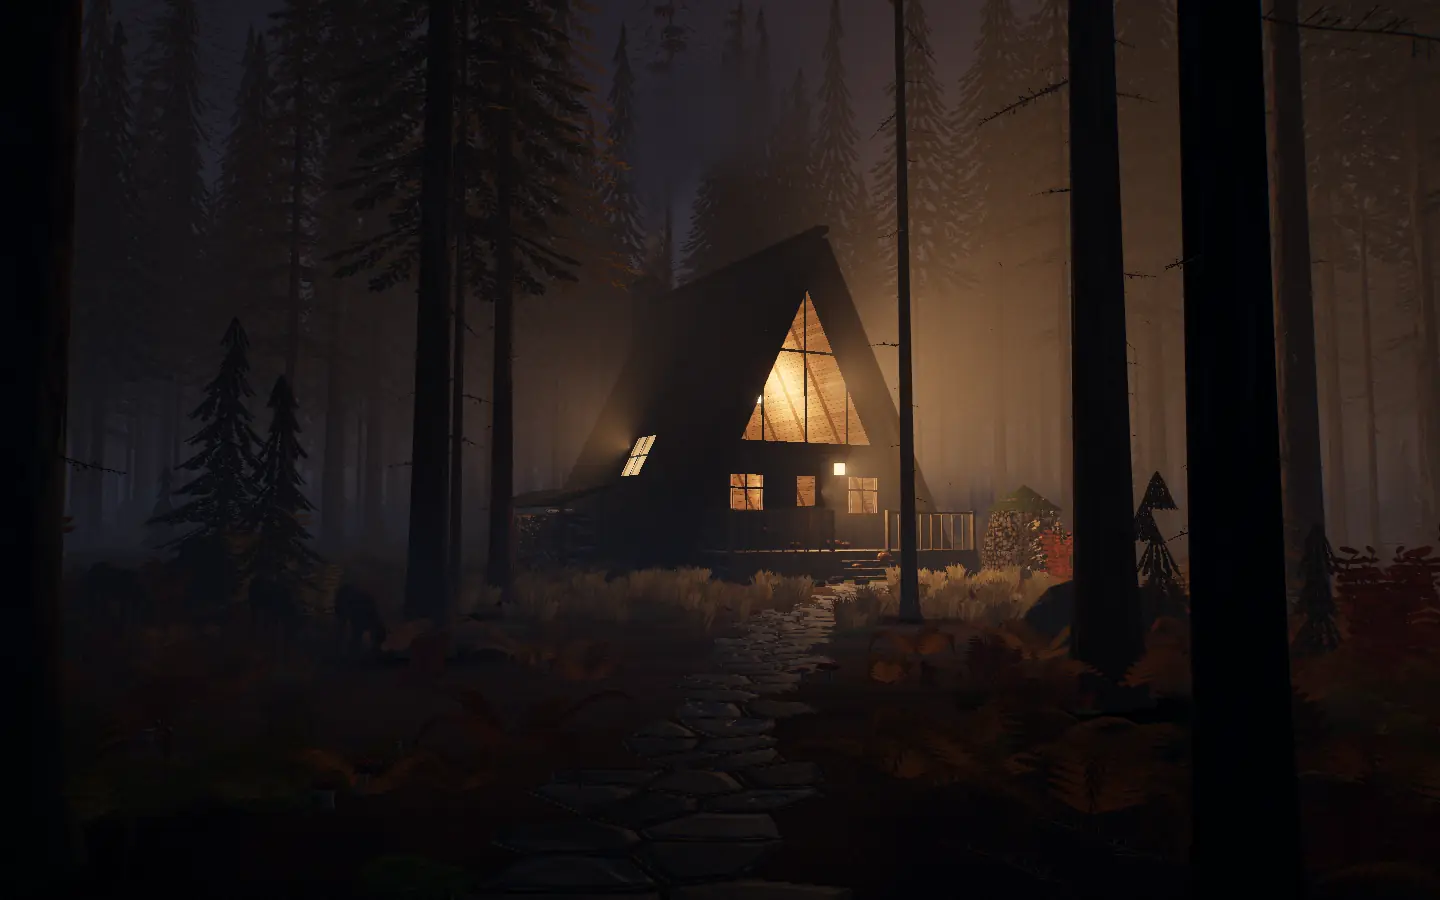
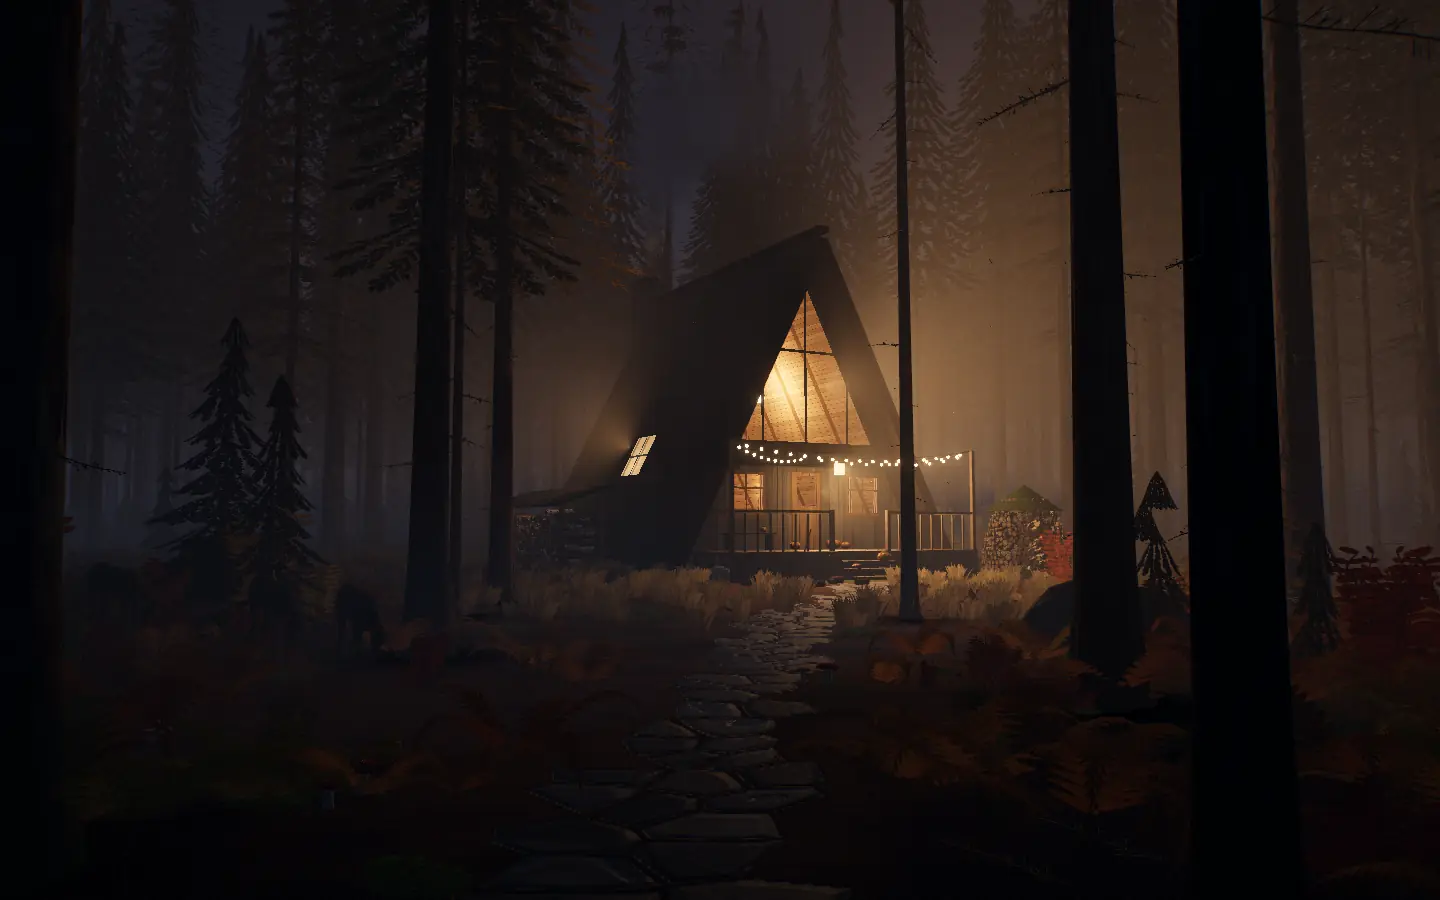
Hearth: a string of lights over the deck
Two poles at the deck's front corners, a swag between them and strings
back to the gable, warm bulbs every 40 cm, and a sixth cabin light so
the deck, the pumpkins and the mist round them take the glow. Fresh
screenshots.

Claude-Session: https://claude.ai/code/session_01GHzSRPRqkqfaveccepgYrb

Changed region(s): [[0.5, 0.4667, 0.6875, 0.6222]]

diff --git a/js/hearth3d.js b/js/hearth3d.js
@@ -66,8 +66,8 @@ const GLOW_DIR = new THREE.Vector3(-0.62, 0.1, -0.78).normalize();   // where th
 const GLSL_COMMON = /* glsl */`
 uniform float uTime, uNight, uFlick, uFogA, uFogH, uScat;
 uniform vec3 uSkyA, uSkyG, uGlowDir, uGlowCol, uFogCol;
-uniform vec3 uLp[5], uLn[5], uLc[5];     // the cabin's light: windows, lantern, roof windows (position, facing, colour)
-uniform float uLk[5], uLs[5];            // how tightly each one is aimed, how big it is
+uniform vec3 uLp[6], uLn[6], uLc[6];     // the cabin's light: windows, lantern, roof windows, the string over the deck (position, facing, colour)
+uniform float uLk[6], uLs[6];            // how tightly each one is aimed, how big it is
 uniform vec2 uClear, uWind;
 uniform mat4 uCabInv;
 float hash12(vec2 p){ vec3 p3 = fract(vec3(p.xyx) * .1031); p3 += dot(p3, p3.yzx + 33.33); return fract((p3.x + p3.y) * p3.z); }
@@ -91,7 +91,7 @@ vec3 fogSky(vec3 rd){
 }
 vec3 cabinLight(vec3 P, vec3 N, float wrap){
   vec3 c = vec3(0.);
-  for (int i = 0; i < 5; i++) {
+  for (int i = 0; i < 6; i++) {
     vec3 L = uLp[i] - P; float d2 = dot(L, L); L *= inversesqrt(d2);
     float dir = pow(max(dot(-L, uLn[i]), 1e-4), uLk[i]);
     c += uLc[i] * clamp((dot(N, L) + wrap) / (1. + wrap), 0., 1.) * dir / (d2 + 0.6);
@@ -100,7 +100,7 @@ vec3 cabinLight(vec3 P, vec3 N, float wrap){
 }
 vec3 cabinSpec(vec3 P, vec3 N, vec3 V, float shin){
   vec3 c = vec3(0.);
-  for (int i = 0; i < 5; i++) {
+  for (int i = 0; i < 6; i++) {
     vec3 L = uLp[i] - P; float d2 = dot(L, L); L *= inversesqrt(d2);
     float dir = pow(max(dot(-L, uLn[i]), 1e-4), uLk[i]);
     c += uLc[i] * dir * pow(max(dot(N, normalize(L + V)), 0.), shin) * (shin + 2.) / 8. * max(dot(N, L), 0.) / (d2 + 0.6);
@@ -123,7 +123,7 @@ vec3 shade(vec3 alb, vec3 N, vec3 P, float ao, float wrap, float spec){
 // light from the cabin scattered by the mist along the view ray (closed form for a point light in uniform fog)
 vec3 scatter(vec3 ro, vec3 rd, float t){
   vec3 s = vec3(0.);
-  for (int i = 0; i < 5; i++) {
+  for (int i = 0; i < 6; i++) {
     vec3 q = uLp[i] - ro; float s0 = dot(q, rd); float h = sqrt(max(dot(q, q) - s0 * s0, 0.)) + uLs[i];
     float a = (atan((t - s0) / h) + atan(s0 / h)) / h;
     vec3 cp = ro + rd * clamp(s0, 0., t);
@@ -173,10 +173,10 @@ const SU = {
   uTime: { value: 0 }, uNight: { value: 0 }, uFlick: { value: 1 }, uFogA: { value: 0.017 }, uFogH: { value: 14 }, uScat: { value: 0.006 },
   uSkyA: { value: new THREE.Vector3() }, uSkyG: { value: new THREE.Vector3() }, uGlowDir: { value: GLOW_DIR.clone() },
   uGlowCol: { value: new THREE.Vector3() }, uFogCol: { value: new THREE.Vector3() },
-  uLp: { value: [0, 1, 2, 3, 4].map(() => new THREE.Vector3()) }, uLn: { value: [0, 1, 2, 3, 4].map(() => new THREE.Vector3()) },
-  uLc: { value: [0, 1, 2, 3, 4].map(() => new THREE.Vector3()) }, uLk: { value: [1, 1, 1, 1, 1] },
+  uLp: { value: [0, 1, 2, 3, 4, 5].map(() => new THREE.Vector3()) }, uLn: { value: [0, 1, 2, 3, 4, 5].map(() => new THREE.Vector3()) },
+  uLc: { value: [0, 1, 2, 3, 4, 5].map(() => new THREE.Vector3()) }, uLk: { value: [1, 1, 1, 1, 1, 1] },
   uClear: { value: new THREE.Vector2(...toWorld(0, 3)) }, uWind: { value: new THREE.Vector2(0.8, 0.6).normalize() },
-  uCabInv: { value: new THREE.Matrix4() }, uAtlas: { value: null }, uLs: { value: [1.6, 1.0, 0.3, 0.9, 0.9] },
+  uCabInv: { value: new THREE.Matrix4() }, uAtlas: { value: null }, uLs: { value: [1.6, 1.0, 0.3, 0.9, 0.9, 1.6] },
 };
 function surf({ vert = "", vpre = "", vpost = "", frag = "", body = "", uniforms = {}, defines = {}, side = THREE.FrontSide, inst = false, ...extra } = {}) {
   return new THREE.ShaderMaterial({
@@ -1239,6 +1239,7 @@ export function startHearth3D(canvasEl, { reduced = false } = {}) {
     { p: cw(1.0, Y0 + 2.15, ZG + 0.3), n: cd(0, -0.3, 1).normalize(), c: [1.0, 0.62, 0.32], i: 3.2, k: 0.4 },   // the lantern
     { p: cw(ROOFWIN[0] - 0.5 * Math.sin(ALPHA), ROOFWIN[1] + 0.5 * Math.cos(ALPHA), ROOFWIN[2]), n: roofN.clone().transformDirection(cabin.matrixWorld), c: [1.0, 0.55, 0.24], i: 7, k: 1.0 },
     { p: cw(-ROOFWIN[0] + 0.5 * Math.sin(ALPHA), ROOFWIN[1] + 0.5 * Math.cos(ALPHA), ROOFWIN[2]), n: cd(Math.sin(ALPHA), Math.cos(ALPHA), 0), c: [1.0, 0.55, 0.24], i: 7, k: 1.0 },
+    { p: cw(0, Y0 + 2.2, ZG + 1.4), n: cd(0, -1, 0), c: [1.0, 0.64, 0.32], i: 3.0, k: 0.3 },          // the string of lights over the deck
   ];
   LIGHTS.forEach((l, i) => { SU.uLp.value[i].copy(l.p); SU.uLn.value[i].copy(l.n); SU.uLk.value[i] = l.k; });
 
@@ -1573,6 +1574,26 @@ export function startHearth3D(canvasEl, { reduced = false } = {}) {
       instanced(pg, surf(PUMPKIN), pk, false);
     }
     for (const x of [-2.6, -1.4]) add(new THREE.BoxGeometry(0.06, 0.42, 0.34), post, x, Y0 + 0.21, ZG + 0.4);
+    // a string of lights over the deck: two poles at the front corners, a swag between them and strings back to the
+    // gable under the eaves, a bulb every 40 cm hanging just below the cable
+    {
+      const PL = [-(DW - 0.05), Y0 + 2.6, ZG + 2.4], PR = [DW - 0.05, Y0 + 2.6, ZG + 2.4];
+      for (const pp of [PL, PR]) add(new THREE.BoxGeometry(0.09, 2.6, 0.09), post, pp[0], Y0 + 1.3, pp[2]);
+      const W0 = [0, Y0 + 2.5, ZG + 0.04], WL = [-2.3, Y0 + 2.45, ZG + 0.04], WR = [2.3, Y0 + 2.45, ZG + 0.04];
+      const runs = [[PL, PR, 0.32], [W0, PL, 0.24], [W0, PR, 0.24], [WL, PL, 0.18], [WR, PR, 0.18]];
+      const cable = surf({ ...METAL, uniforms: { uCol: { value: new THREE.Vector3(0.02, 0.02, 0.02) } } });
+      const bulbs = [];
+      for (const [a, b, sag] of runs) {
+        const at = (t) => new THREE.Vector3(a[0] + (b[0] - a[0]) * t, a[1] + (b[1] - a[1]) * t - sag * 4 * t * (1 - t), a[2] + (b[2] - a[2]) * t);
+        const pts = []; for (let i = 0; i <= 16; i++) pts.push(at(i / 16));
+        add(new THREE.TubeGeometry(new THREE.CatmullRomCurve3(pts), 32, 0.006, 4), cable);
+        const L = Math.hypot(b[0] - a[0], b[1] - a[1], b[2] - a[2]), n = Math.round(L / 0.4);
+        for (let i = 1; i < n; i++) { const q = at(i / n); dummy.position.set(q.x, q.y - 0.07, q.z); dummy.rotation.set(0, 0, 0); dummy.scale.setScalar(1); dummy.updateMatrix(); bulbs.push(dummy.matrix.clone()); }
+      }
+      const bulb = (geo, mat) => { const m = new THREE.InstancedMesh(geo, mat, bulbs.length); bulbs.forEach((b, i) => m.setMatrixAt(i, b)); m.frustumCulled = false; cabin.add(m); };
+      bulb(new THREE.SphereGeometry(0.038, 10, 8), surf({ inst: true, body: "alb = vec3(0.); emis = vec3(1.0, 0.62, 0.28) * (5.5 + 1.5 * hash12(vW.xz * 13.));" }));
+      bulb(new THREE.CylinderGeometry(0.014, 0.014, 0.05, 6).translate(0, 0.05, 0), cable);         // the sockets
+    }
     // the lantern by the door
     const lp = [1.0, Y0 + 2.15, ZG + 0.12];
     add(new THREE.BoxGeometry(0.2, 0.3, 0.2), surf(GLOWMAT), ...lp);
@@ -1879,7 +1900,7 @@ export function startHearth3D(canvasEl, { reduced = false } = {}) {
     SU.uNight.value = night;
     mixv(SU.uSkyA.value, DUSK.skyA, NIGHT.skyA, night); mixv(SU.uSkyG.value, DUSK.skyG, NIGHT.skyG, night);
     mixv(SU.uGlowCol.value, DUSK.glow, NIGHT.glow, night); mixv(SU.uFogCol.value, DUSK.fog, NIGHT.fog, night);
-    LIGHTS.forEach((l, i) => SU.uLc.value[i].set(...l.c).multiplyScalar(l.i * (i === 2 ? 0.95 + 0.05 * fl : 0.7 + 0.3 * fl)));
+    LIGHTS.forEach((l, i) => SU.uLc.value[i].set(...l.c).multiplyScalar(l.i * (i === 2 ? 0.95 + 0.05 * fl : i === 5 ? 1 : 0.7 + 0.3 * fl)));
     post.U.uExposure.value = 1.2 + night * 0.4;
 
     // walking round the cabin: the circle you are on, then stepped round anything in the way

diff --git a/js/data.js b/js/data.js
@@ -16,7 +16,7 @@ export const worlds = [
     kicker: "A cabin in the spruces",
     tagline: "An A-frame in an old spruce forest on a cold autumn evening.",
     description:
-      "Mist between the trunks, a floor of needles, bracken gone rusty and larches turned gold. In a small clearing an A-frame glows: a lamp hangs in the double-height room, a fire burns in the stone hearth, someone walks past the windows. Smoke rises from the stone chimney, firewood is stacked under a lean-to and in a round stack, and roe deer, a fox and hares wander the trails round the house.",
+      "Mist between the trunks, a floor of needles, bracken gone rusty and larches turned gold. In a small clearing an A-frame glows: a lamp hangs in the double-height room, a fire burns in the stone hearth, someone walks past the windows, and a string of lights hangs over the deck. Smoke rises from the stone chimney, firewood is stacked under a lean-to and in a round stack, and roe deer, a fox and hares wander the trails round the house.",
     date: "2026-10",
     genre: "Scene",
     tags: ["three.js", "GLSL", "procedural", "WebAudio"],
@@ -30,7 +30,7 @@ export const worlds = [
     repo: SRC + "js/hearth3d.js",
     shots: [
       { src: "hearth-1.webp", alt: "A glowing A-frame cabin in a misty spruce forest at dusk, smoke rising from its chimney, a flagstone path leading to it", caption: "Through the trunks at dusk" },
-      { src: "hearth-2.webp", alt: "The side of the A-frame up close: a mossy shingle roof with a lit roof window, firewood stacked under a lean-to, the lit deck beyond", caption: "Round the side: the woodshed and a roof window" },
+      { src: "hearth-2.webp", alt: "The front of the A-frame up close: a string of lights over the deck, lit windows, pumpkins on the steps, a chopping block with an axe", caption: "Up close: string lights over the deck" },
       { src: "hearth-3.webp", alt: "The back of the cabin: a stone gable wall with a stone chimney rising above the roof", caption: "The stone wall and chimney at the back" },
       { src: "hearth-4.webp", alt: "The cabin at night, only its windows lit, glowing in the mist", caption: "Nightfall" },
     ],

diff --git a/AGENTS.md b/AGENTS.md
@@ -17,7 +17,7 @@ Deployed by GitHub Pages from `master` (custom domain in `CNAME`).
 | `js/shade-audio.js` | Shade's soundscape, synthesised with WebAudio: cicadas, wind in the leaves, the river (louder as you descend), birds; `gust()` swells the wind. The page's controls: Sound (M), Gust (G, `__shade.gust()` sends a gust front rolling over the canopy), Descend (D, `__shade.toggleDescend()`), Pan 360° (P), Fullscreen (F). |
 | `js/torus3d.js` | Third scene, fullscreen at `torus/`: a Stanford torus seen from outside (ring radius `R` 895 m, tube radius `RT` 110 m), turning once a minute (`OMEGA`, about 1 g on the floor). The tube is glass from 65° round the tube (`PSI_GLASS`) over the top, inner face and bottom; the hull is below the land. Inside, a point is (θ round the ring, s across along the axis, h up toward the axis); the land lies `landF(s)` below the tube's centre (a valley, terraced near the glass). A river (`riverS`/`riverW`, duplicated in GLSL) runs round the whole ring with a monorail over it; quarters of blocks with roof gardens (density `urban(θ)`), parks, fields, tree-lined promenades and boulevards (`BLVD`) with walking people (points), boats, terraced houses. Everything on the station is drawn in the station's own spinning frame (`uInvSt`, `uCamL`, `uSunL`); interior surfaces add the air they are seen through (`airPath` traces back to the glass), and the glass's back faces add the lit air of the empty tube. Ground shadows are soft decals (`SHADOW_DIR`). The station orbits Earth ~8,000 km up in a dawn-dusk orbit (plane square to the sun, so no eclipses): Earth (`E_ANG` 26° angular radius, detailed procedural planet with clouds, glint, thin atmosphere, twilight band, city lights) rolls through the sky once per `E_PERIOD` (240 s; the real orbit is ~4.5 h), always half lit, along `ORBIT_U`/`ORBIT_W`; the Moon is a 0.7° disc at a fixed direction (`MOON_DIR`) that Earth occults as it passes. The sun stands to the right of the opening view (`VIEW0`). Earth lights the hull (earthshine) and shows in the glass (`earthSeen`). Earth and Moon are spheres drawn round the camera, so only their angular sizes matter. A shuttle docks at the hub every two minutes. Drag to orbit, wheel/pinch/±/arrows to zoom; the orbit target slides from the hub to the land on the far side, and close in the camera co-rotates (`ride`). Seeded (`L` lays out, `D` decorates). `window.__torus` exposes `{frame, setView(azDeg, elDeg, zoom 0..1), setTime(t), zoomBy, scene, camera, stats}`; with reduced motion it draws single frames, which is also the way to screenshot it in headless Chrome (call `frame(0)` and read the canvas in the same task). |
 | `js/torus-audio.js` | Torus soundscape, synthesised with WebAudio: a deep rumble, a beating low drone, machinery hum and air handlers, a swell as each spoke comes round, groans and creaks of the structure, in a generated reverb; `near` (the zoom) brings machinery and groans closer. The page's controls: Sound (M), − / + zoom, Fullscreen (F). |
-| `js/hearth3d.js` | Fourth scene, fullscreen at `hearth/`: an A-frame in an old spruce forest on a cold autumn evening, seen at eye height (`EYE`). The cabin (`CABIN`, turned by `CABIN.yaw`; its own frame has the front gable toward +z, dimensions `B`, `HR`, `Y0`, `ZG`, `YL`, `ZL`) stands in a clearing; `toWorld`/`toLocal` convert, `uCabInv` gives shaders the cabin frame. The front gable is one triangle whose fragment shader (`GABLE`) lays out boards, door, windows and glazing and ray-traces the room behind the glass (floor, roof planes, loft with string lights, a stone back wall with an open hearth, sofa, pendant lamp, a person walking about). The back gable, the footing and the chimney stack are `STONEWALL` (big stones in courses; a small loft window); smoke (CPU particles, `CHIMNEY`) rises from the chimney, sparks when stoked. Roof (`ROOF`): shingles, moss, a roof window each side. Firewood (`LOG`: rounds, halves, quarters) in the lean-to and a round stack; pumpkins on the steps. A flagstone path (`PATH`, drawn in the `GROUND` shader). Trees (spruce, pine, larch, snags) are instanced lathe trunks (`TRUNK`) plus whorls of branches (`WHORL`) textured from an atlas painted needle by needle at startup (`paintAtlas`: 8 cells 256×1024, sprays pre-distorted for the whorl's polar mapping, a dead branch, bracken, grass, blueberry); dead twigs and fallen litter use the dead-branch cell. Lighting is custom (`shade()`): sky light dimmed under the canopy (`openness`), a last glow (`GLOW_DIR`), the cabin's five lights (`uLp/uLn/uLc/uLk/uLs`: glazing, door and windows, lantern, two roof windows) and their glow in the mist (`scatter`, closed form). Roe deer, a fox and hares (`quadruped()`, `ANIMAL`, posed in the vertex shader) walk loops round the cabin (`ROUTES`, `routeAt`; trees are kept off the trails) in herds that walk, graze and look up (`animals()`). You walk round the cabin on a circle (`ORBIT0`, `DIST0`, `DMIN`..`DMAX`), stepping round trunks (`obstacles`): ←/→ or A/D walk round, ↑/↓, +/−, the wheel or a pinch come closer, the mouse looks round. Instanced meshes are cut into rings and compass sectors round the cabin and culled by three. Seeded (`R` places trees, `D` decorates, `AR` drives the animals). On coarse-pointer devices (`LITE`) the forest is thinner. `window.__hearth` exposes `{frame, setView(orbitDeg, dist, yawDeg, pitchDeg), look([x,y,z],[x,y,z]), setNight, toggleNight, stoke, zoomBy, scene, camera, stats}`; with reduced motion it draws single frames (screenshot with `setView(...)` then `frame(0)`). |
+| `js/hearth3d.js` | Fourth scene, fullscreen at `hearth/`: an A-frame in an old spruce forest on a cold autumn evening, seen at eye height (`EYE`). The cabin (`CABIN`, turned by `CABIN.yaw`; its own frame has the front gable toward +z, dimensions `B`, `HR`, `Y0`, `ZG`, `YL`, `ZL`) stands in a clearing; `toWorld`/`toLocal` convert, `uCabInv` gives shaders the cabin frame. The front gable is one triangle whose fragment shader (`GABLE`) lays out boards, door, windows and glazing and ray-traces the room behind the glass (floor, roof planes, loft with string lights, a stone back wall with an open hearth, sofa, pendant lamp, a person walking about). The back gable, the footing and the chimney stack are `STONEWALL` (big stones in courses; a small loft window); smoke (CPU particles, `CHIMNEY`) rises from the chimney, sparks when stoked. Roof (`ROOF`): shingles, moss, a roof window each side. Firewood (`LOG`: rounds, halves, quarters) in the lean-to and a round stack; pumpkins on the steps; a string of lights over the deck (two poles, cables sagging back to the gable, emissive bulbs). A flagstone path (`PATH`, drawn in the `GROUND` shader). Trees (spruce, pine, larch, snags) are instanced lathe trunks (`TRUNK`) plus whorls of branches (`WHORL`) textured from an atlas painted needle by needle at startup (`paintAtlas`: 8 cells 256×1024, sprays pre-distorted for the whorl's polar mapping, a dead branch, bracken, grass, blueberry); dead twigs and fallen litter use the dead-branch cell. Lighting is custom (`shade()`): sky light dimmed under the canopy (`openness`), a last glow (`GLOW_DIR`), the cabin's six lights (`uLp/uLn/uLc/uLk/uLs`: glazing, door and windows, lantern, two roof windows, the string over the deck) and their glow in the mist (`scatter`, closed form). Roe deer, a fox and hares (`quadruped()`, `ANIMAL`, posed in the vertex shader) walk loops round the cabin (`ROUTES`, `routeAt`; trees are kept off the trails) in herds that walk, graze and look up (`animals()`). You walk round the cabin on a circle (`ORBIT0`, `DIST0`, `DMIN`..`DMAX`), stepping round trunks (`obstacles`): ←/→ or A/D walk round, ↑/↓, +/−, the wheel or a pinch come closer, the mouse looks round. Instanced meshes are cut into rings and compass sectors round the cabin and culled by three. Seeded (`R` places trees, `D` decorates, `AR` drives the animals). On coarse-pointer devices (`LITE`) the forest is thinner. `window.__hearth` exposes `{frame, setView(orbitDeg, dist, yawDeg, pitchDeg), look([x,y,z],[x,y,z]), setNight, toggleNight, stoke, zoomBy, scene, camera, stats}`; with reduced motion it draws single frames (screenshot with `setView(...)` then `frame(0)`). |
 | `js/hearth-audio.js` | Hearth soundscape (WebAudio): wind in the crowns, creaking trunks, a raven (an owl at night), the fire heard through the walls (louder close up and when stoked). The page's controls: Sound (M), − / + (come closer), Stoke the fire (S), Nightfall (N), Fullscreen (F). |
 | `js/post.js` | Post chain shared by the scenes: HDR target, dual-filter bloom, and a scene-specific composite shader passed in. |
 | `storm/`, `shade/`, `torus/`, `hearth/` | Fullscreen pages for the four scenes, linked from the Worlds gallery. |
